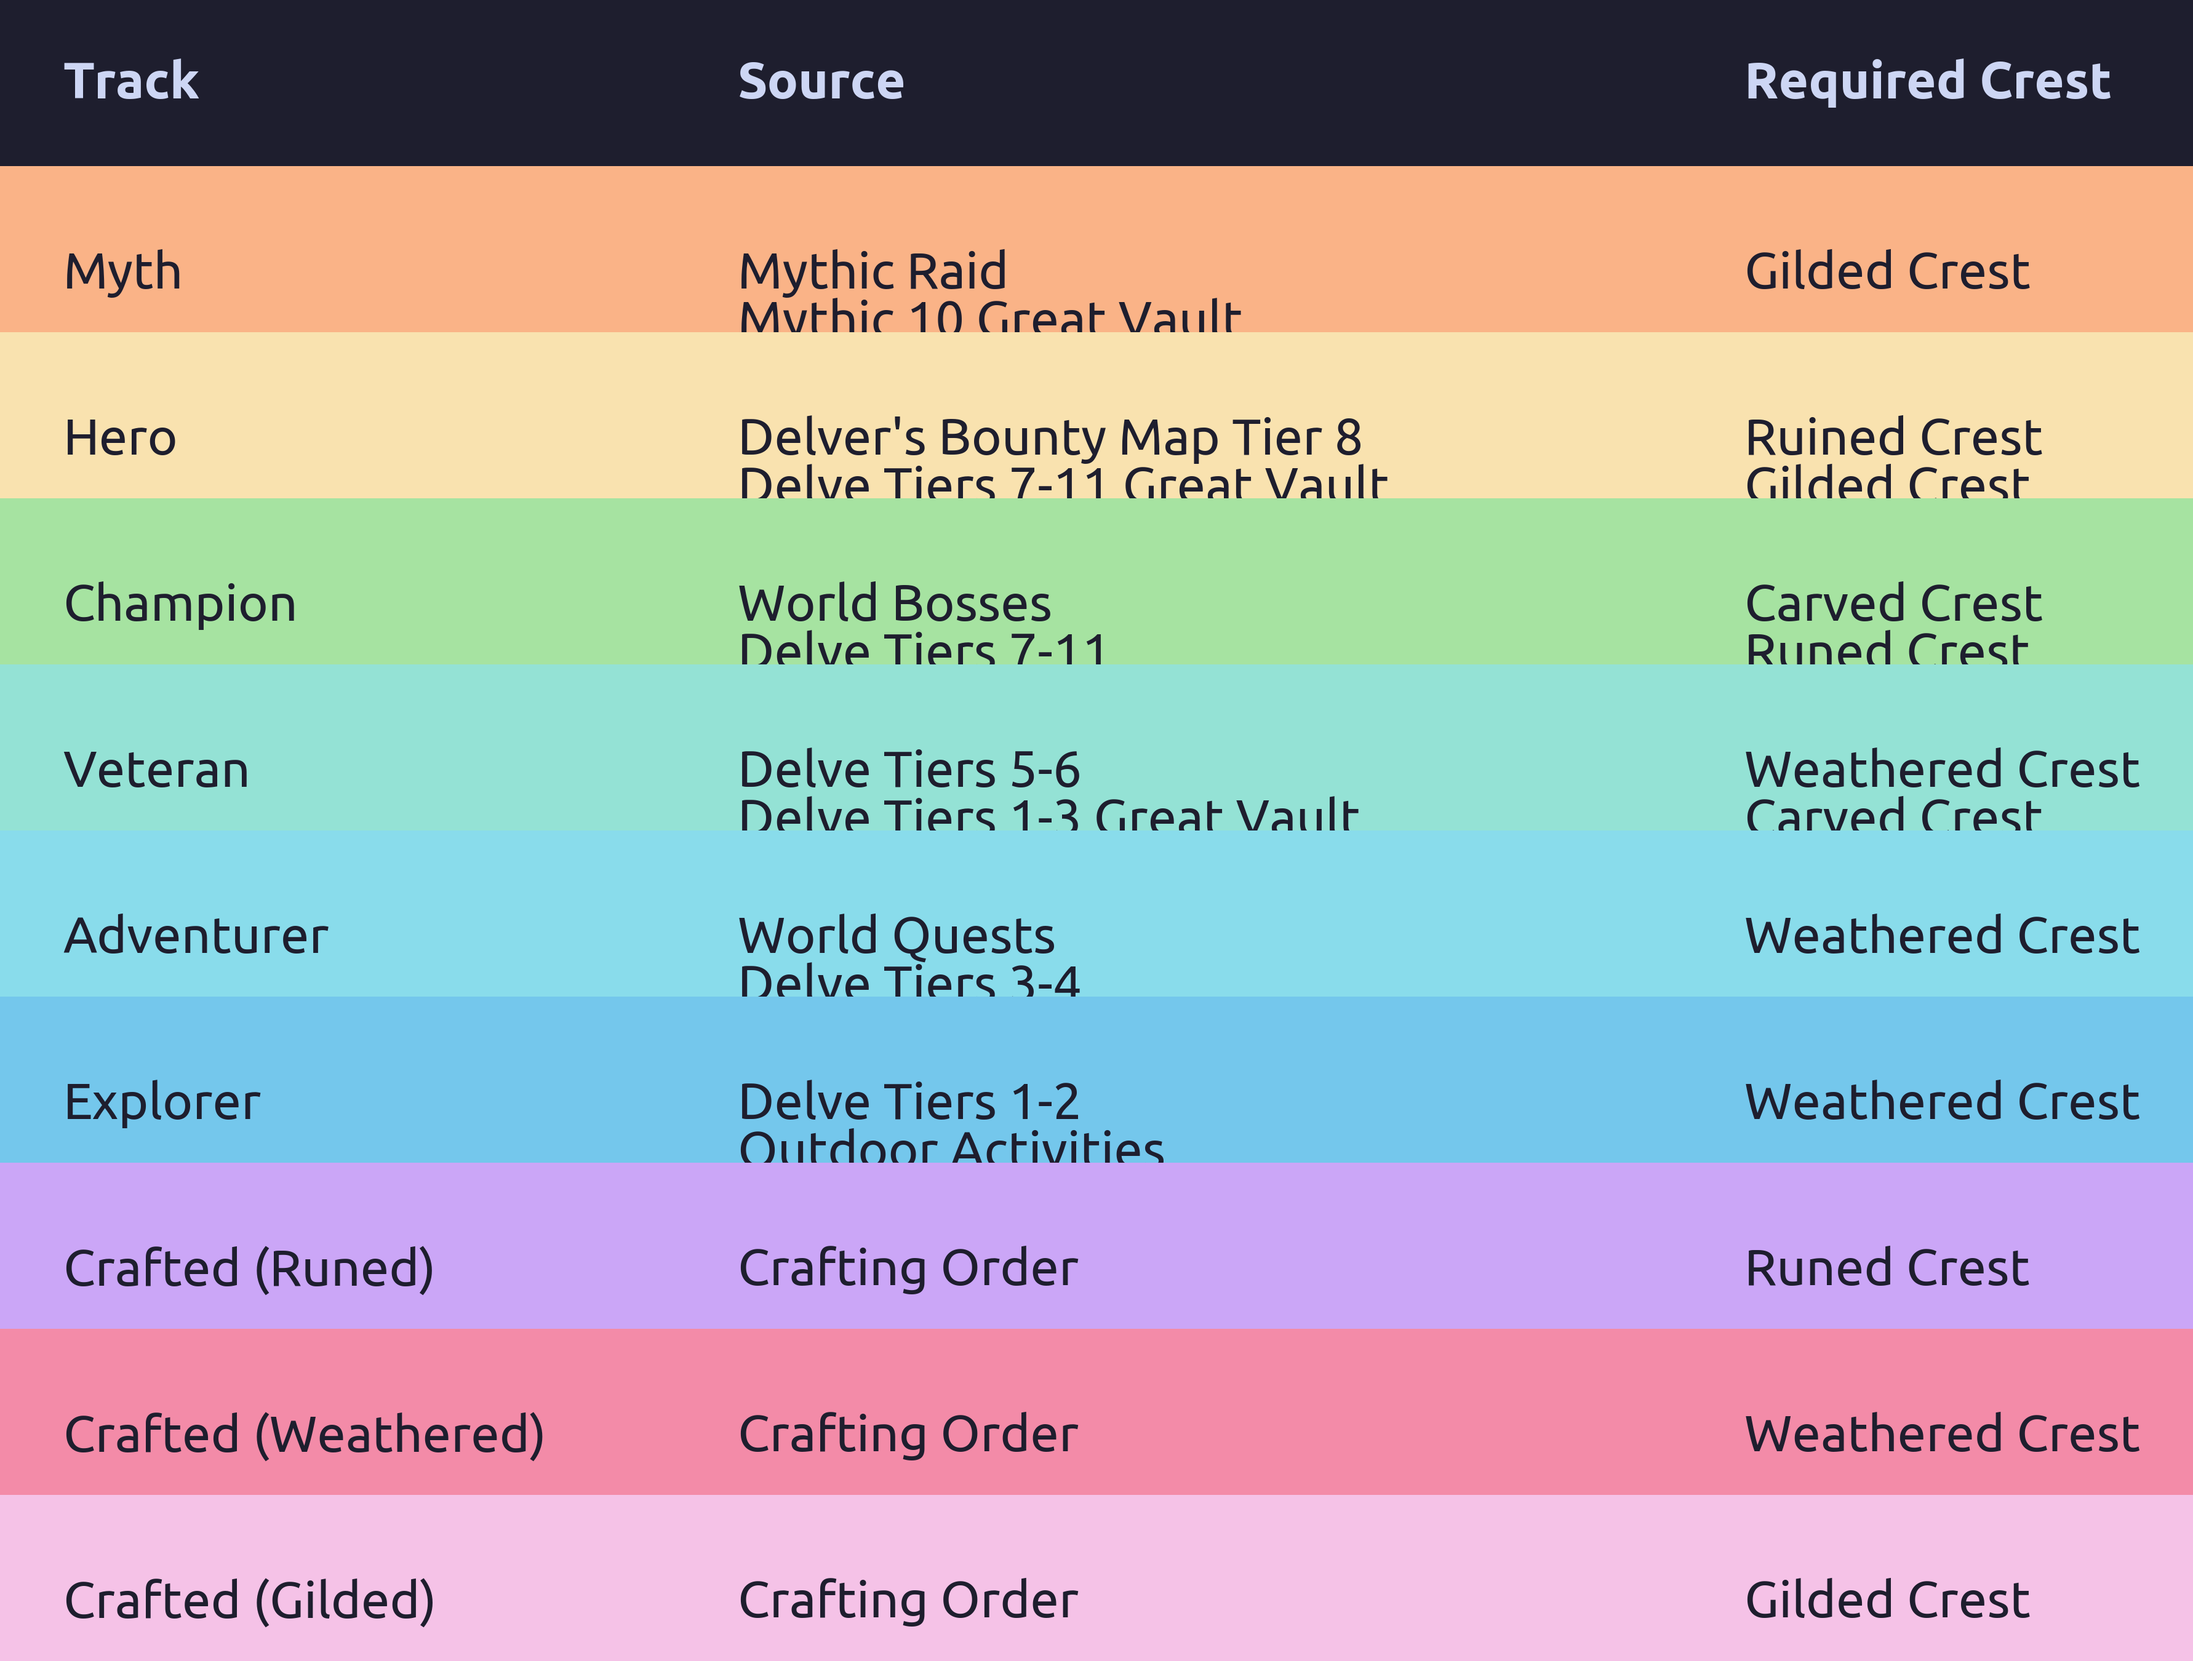
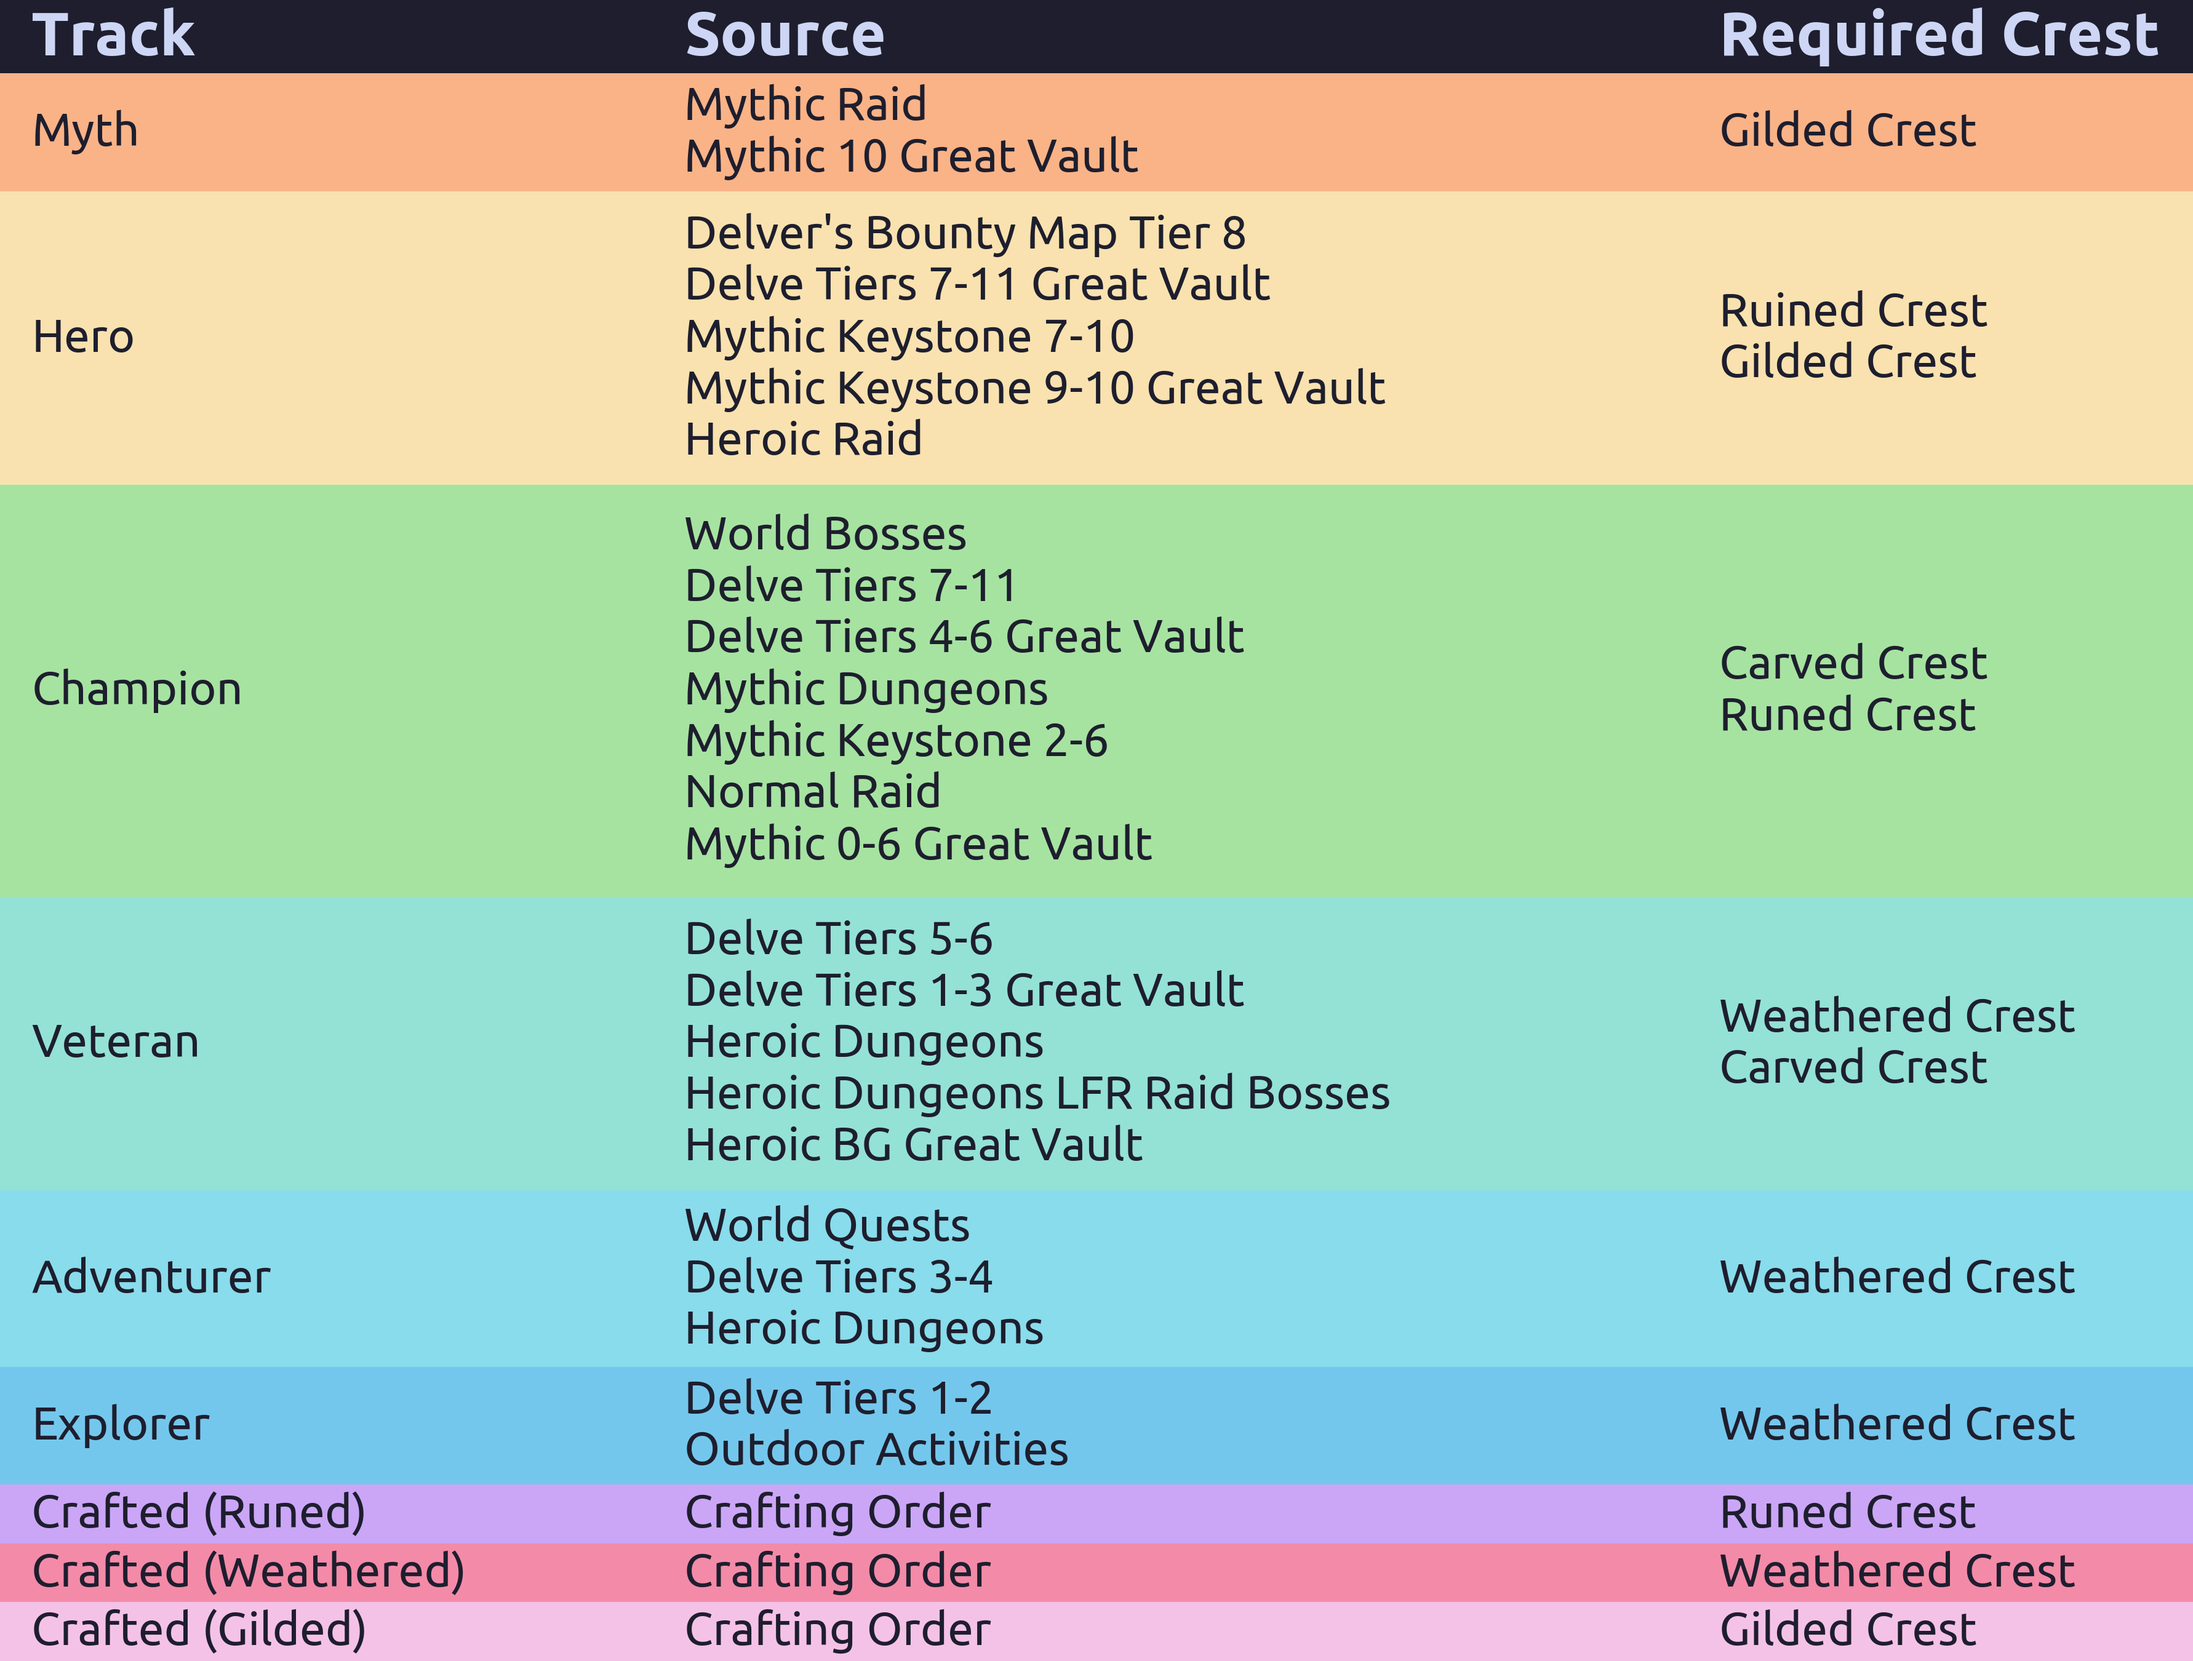
working but stupid center aligned

diff --git a/gear_source_table.py b/gear_source_table.py
@@ -56,7 +56,8 @@ table = ax.table(
 
 # Set font sizes
 table.auto_set_font_size(False)
-table.set_fontsize(10)
+table.set_fontsize(9)
+
 
 # Adjust column widths
 for i, width in enumerate(col_widths):
@@ -73,27 +74,28 @@ for index, row in df.iterrows():
 # Set cell properties
 for (row, col), cell in table.get_celld().items():
     # Remove extra padding
-    cell.PAD = 0.1
+    cell.PAD = 0.05
     if row == 0:
         # Header row
+        cell.set_height(0.25)
         cell.set_text_props(
             fontfamily=header_font,
+            fontsize=12,
             color=header_text_color,
             weight="bold",
             ha="left",
             va="center",
-            linespacing=1,
         )
         cell.set_facecolor(header_background_color)
         cell.set_edgecolor("none")
     else:
-        # Data cells
+        max_lines = max_lines_per_row[row - 1]
+        ch = 0.2 * max_lines
+        cell.set_height(ch)
         cell.set_text_props(
             fontfamily=header_font,
             color=row_text_color,
             ha="left",
-            va="top",
-            linespacing=1,
         )
         # Get the track name for this row
         track_name = df.iloc[row - 1]["Track"]
@@ -101,10 +103,7 @@ for (row, col), cell in table.get_celld().items():
         background_color = custom_track_colors.get(track_name, "#FFFFFF")
         cell.set_facecolor(background_color)
         cell.set_edgecolor("none")
-        # Adjust row height based on content
-        max_lines = max_lines_per_row[row - 1]
-        # Adjust the height per line; tweak the multiplier if necessary
-        # cell.set_height(0.05 * max_lines + 0.05)
+
 
 # Remove any white border or extra space around the table
 plt.subplots_adjust(left=0, right=1, top=1, bottom=0)
